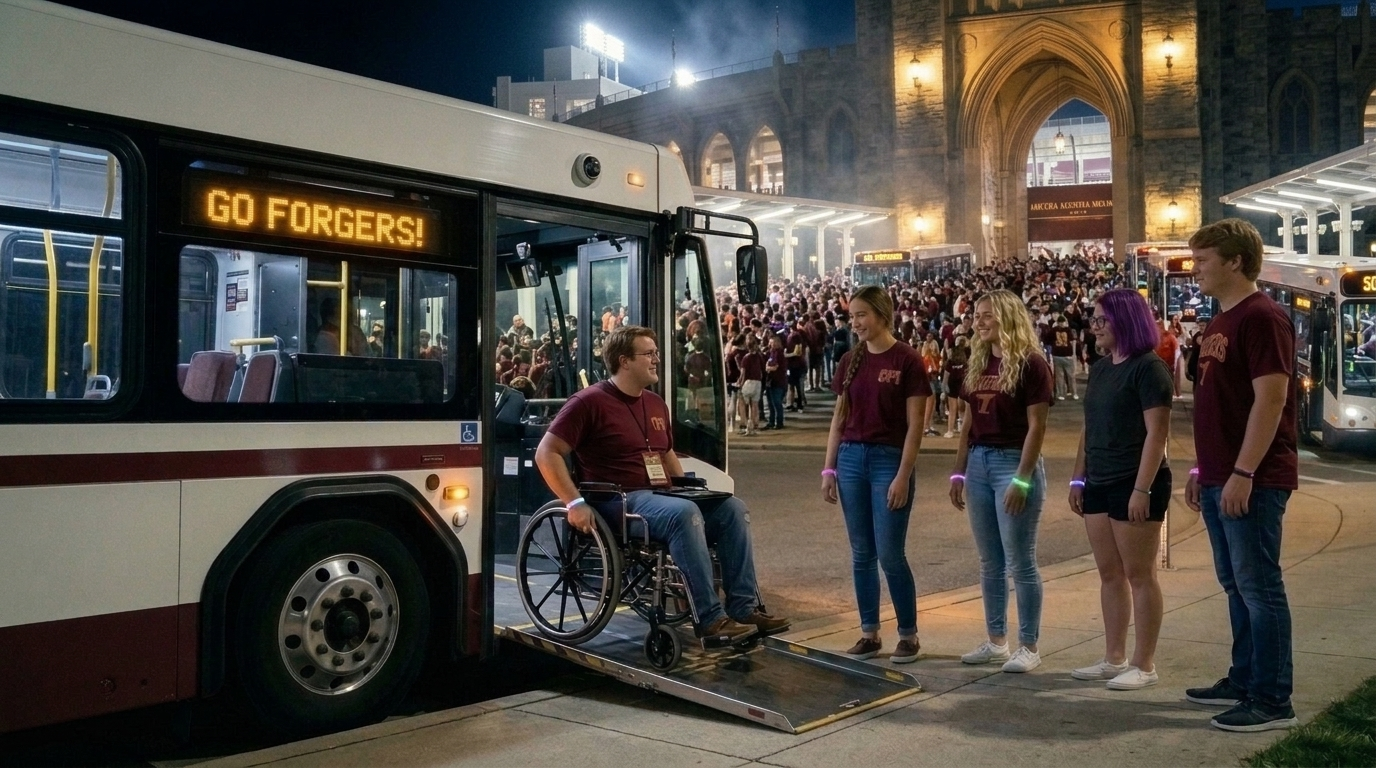
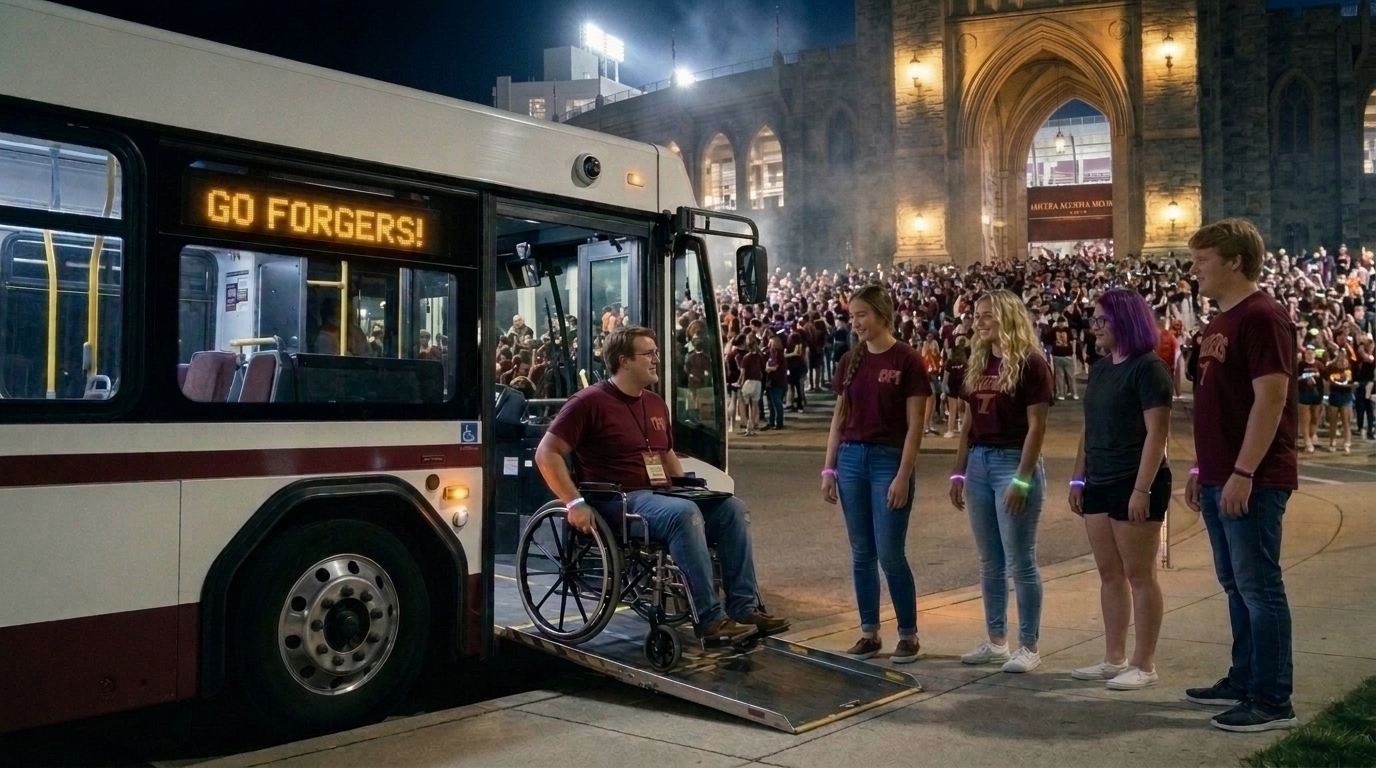
Remove background buses from Crucible pedestrian plaza in p006 and bust theme CSS cache in reader.js

Changed region(s): [[0.7812, 0.1875, 1.0, 0.625], [0.5, 0.2188, 0.7188, 0.4062]]

diff --git a/raggiesoft-books/js/reader.js b/raggiesoft-books/js/reader.js
@@ -913,6 +913,11 @@ function initOceanViewReader() {
             document.body.classList.add('theme-custom');
             document.body.classList.add(`theme-${narrativeTheme}`);
             if (customThemeLink) {
+                const rawHref = customThemeLink.getAttribute('href') || '';
+                if (rawHref) {
+                    const baseHref = rawHref.split('?')[0];
+                    customThemeLink.setAttribute('href', baseHref + '?v=20261026c');
+                }
                 customThemeLink.removeAttribute('disabled');
                 customThemeLink.disabled = false;
             }
